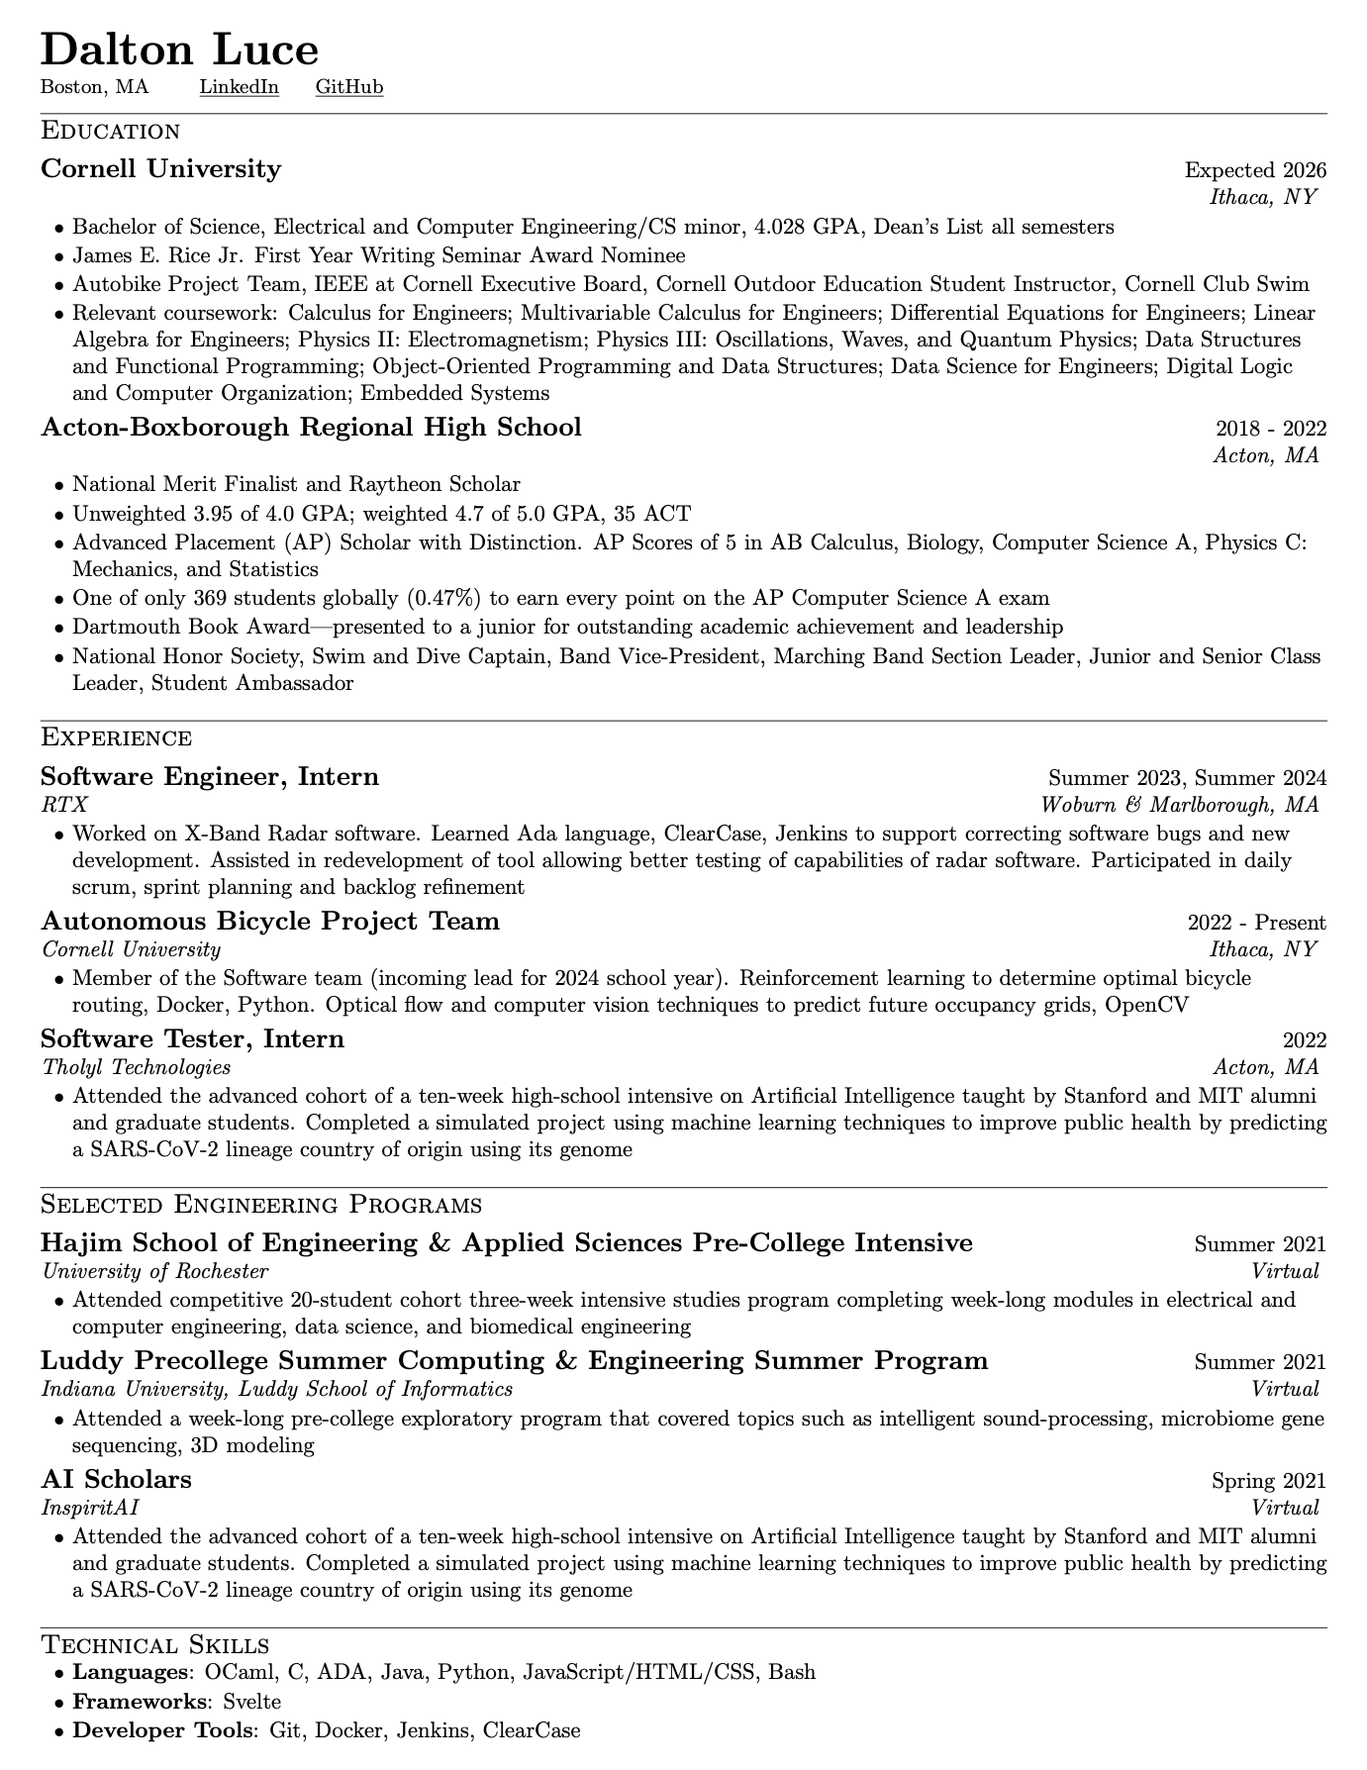
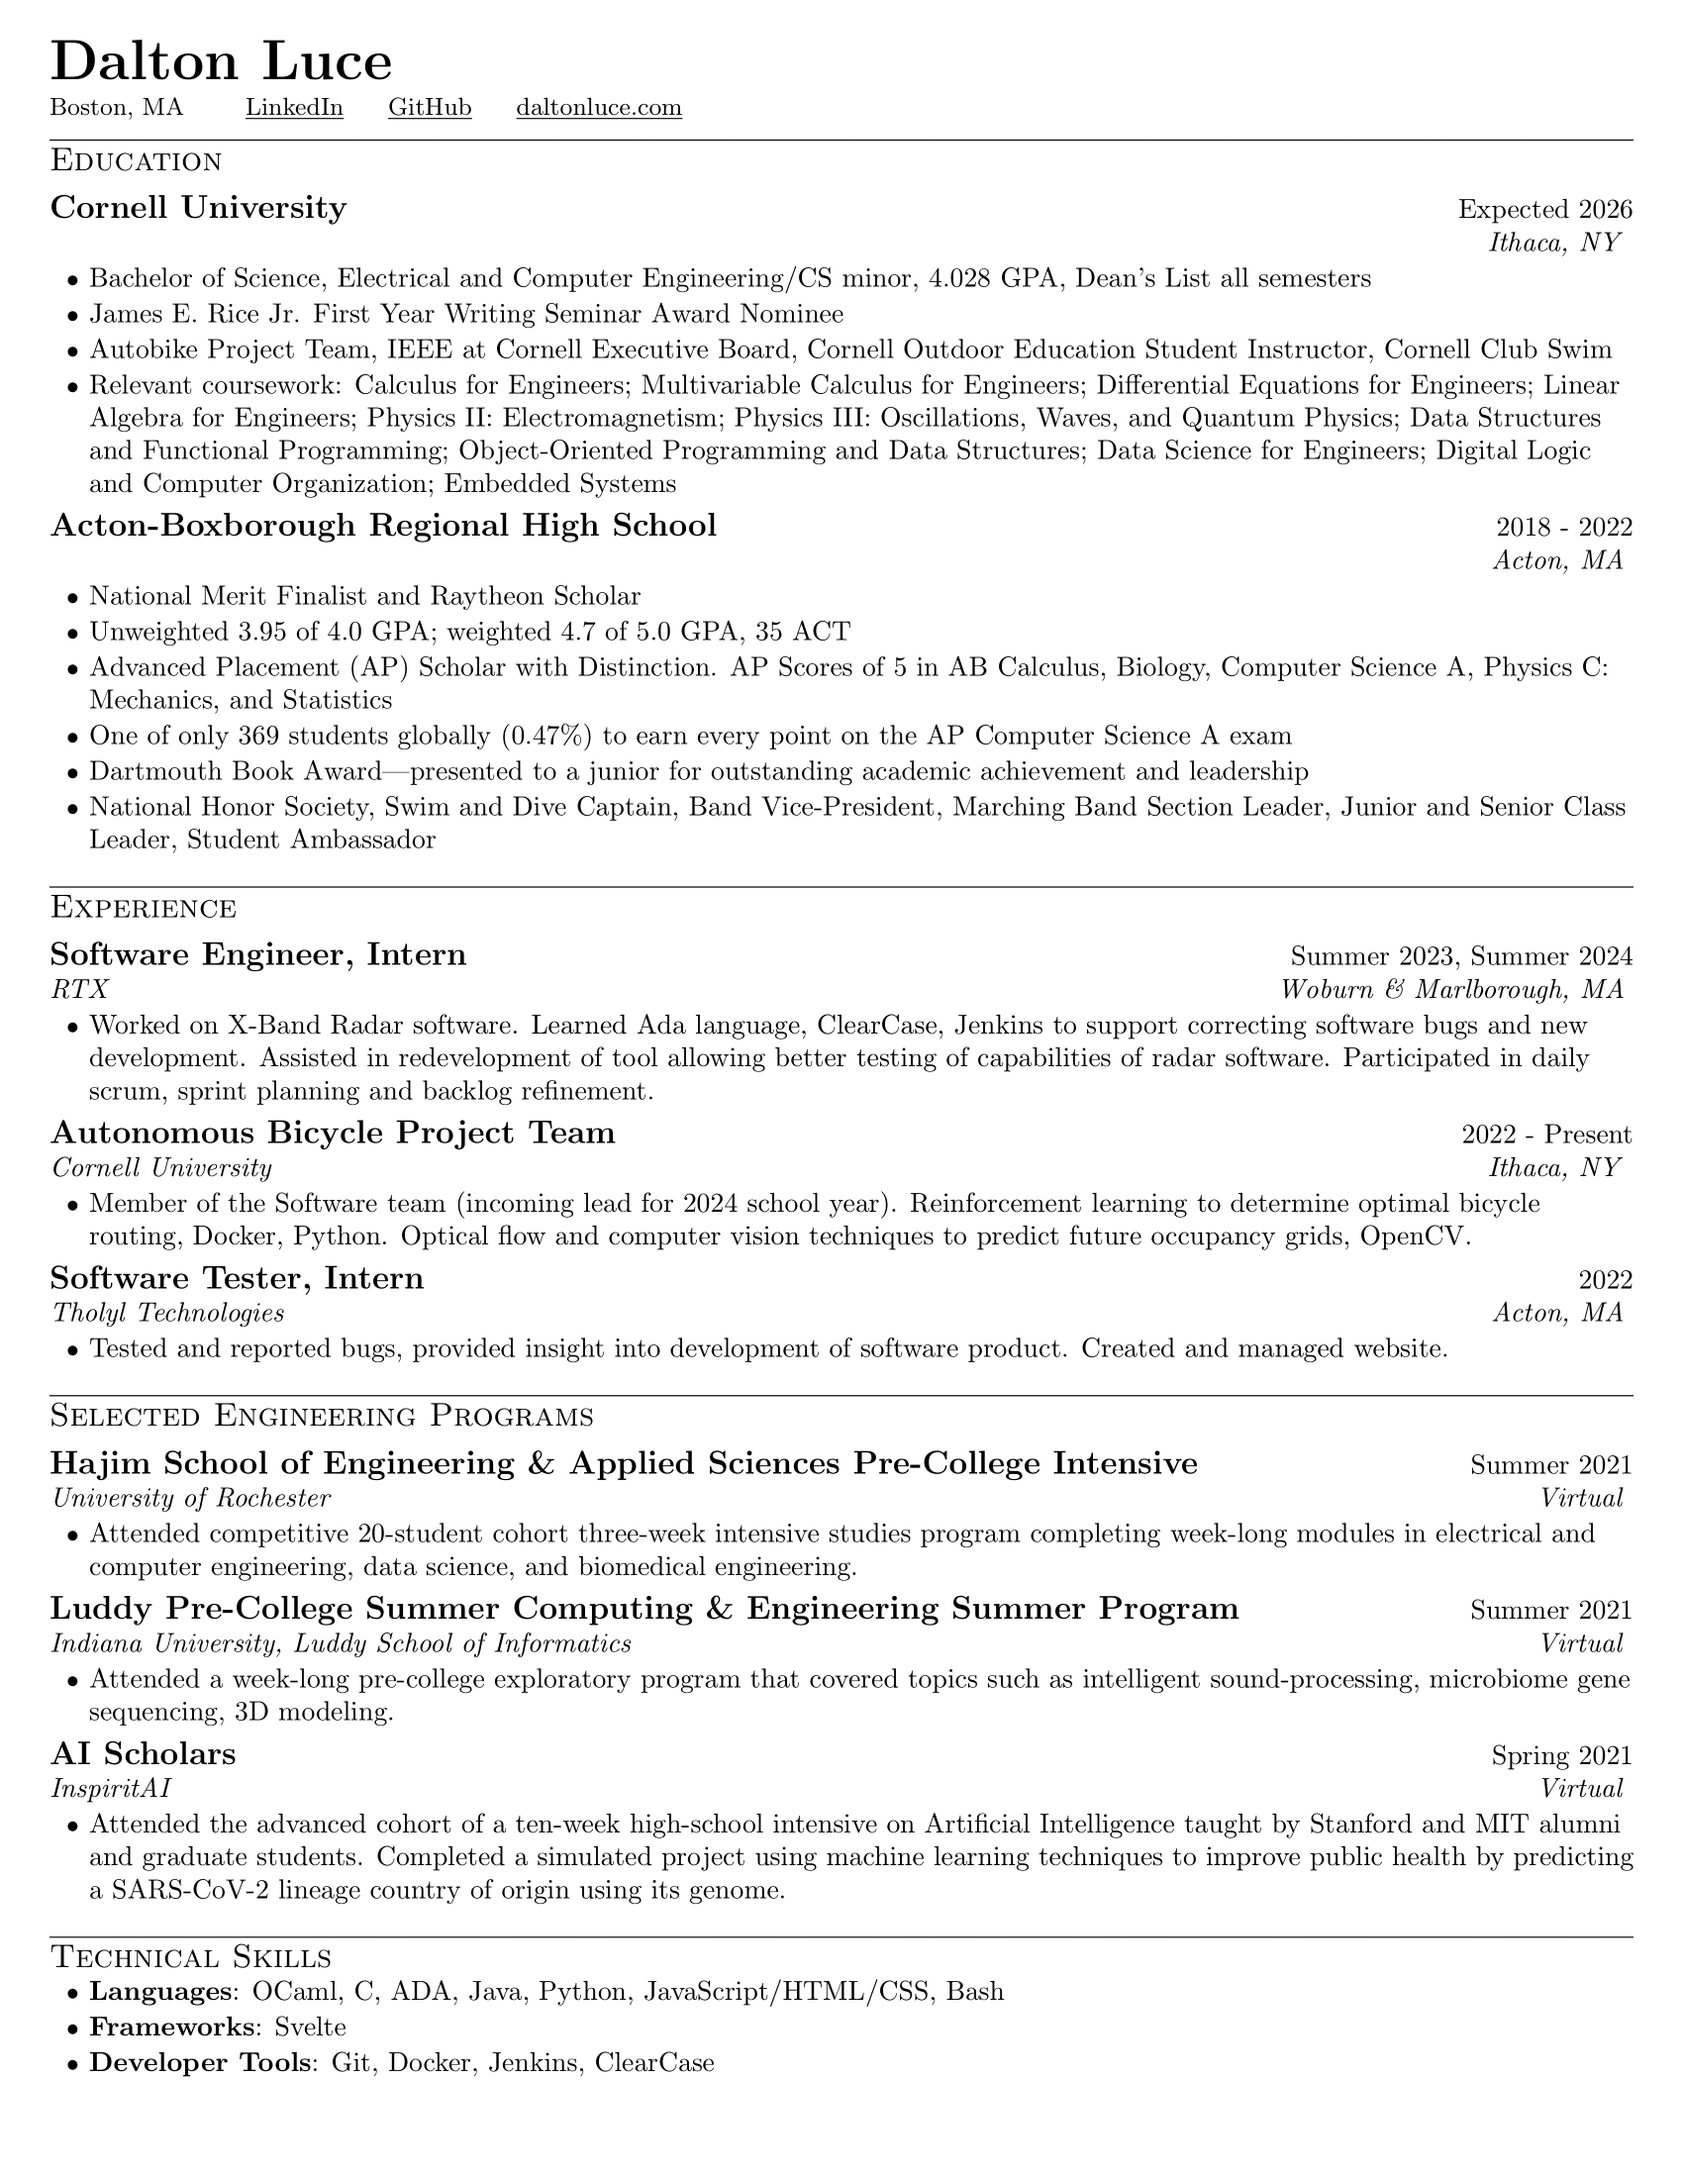
correct Tholyl

diff --git a/cv.tex b/cv.tex
@@ -158,7 +158,7 @@
         {Woburn \& Marlborough, MA}
 
     \itemsBegin
-        \item Worked on X-Band Radar software. Learned Ada language, ClearCase, Jenkins to support correcting software bugs and new development. Assisted in redevelopment of tool allowing better testing of capabilities of radar software. Participated in daily scrum, sprint planning and backlog refinement
+        \item Worked on X-Band Radar software. Learned Ada language, ClearCase, Jenkins to support correcting software bugs and new development. Assisted in redevelopment of tool allowing better testing of capabilities of radar software. Participated in daily scrum, sprint planning and backlog refinement.
     \itemsEnd
 
     %--------Autobike--------
@@ -169,7 +169,7 @@
         {Ithaca, NY}
 
     \itemsBegin
-        \item Member of the Software team (incoming lead for 2024 school year). Reinforcement learning to determine optimal bicycle routing, Docker, Python. Optical flow and computer vision techniques to predict future occupancy grids, OpenCV
+        \item Member of the Software team (incoming lead for 2024 school year). Reinforcement learning to determine optimal bicycle routing, Docker, Python. Optical flow and computer vision techniques to predict future occupancy grids, OpenCV.
     \itemsEnd
 
     %--------Tholyl--------
@@ -180,7 +180,7 @@
         {Acton, MA}
 
     \itemsBegin
-        \item Attended the advanced cohort of a ten-week high-school intensive on Artificial Intelligence taught by Stanford and MIT alumni and graduate students. Completed a simulated project using machine learning techniques to improve public health by predicting a SARS-CoV-2 lineage country of origin using its genome
+        \item Tested and reported bugs, provided insight into development of software product. Created and managed website.
     \itemsEnd
 
 %-----------SELECTED ENGINEERING PROGRAMS-----------
@@ -195,7 +195,7 @@
         {Virtual}
 
     \itemsBegin
-        \item Attended competitive 20-student cohort three-week intensive studies program completing week-long modules in electrical and computer engineering, data science, and biomedical engineering
+        \item Attended competitive 20-student cohort three-week intensive studies program completing week-long modules in electrical and computer engineering, data science, and biomedical engineering.
     \itemsEnd
 
     %--------Luddy--------
@@ -206,7 +206,7 @@
         {Virtual}
 
     \itemsBegin
-        \item Attended a week-long pre-college exploratory program that covered topics such as intelligent sound-processing, microbiome gene sequencing, 3D modeling
+        \item Attended a week-long pre-college exploratory program that covered topics such as intelligent sound-processing, microbiome gene sequencing, 3D modeling.
     \itemsEnd
 
 
@@ -218,7 +218,7 @@
         {Virtual}
 
     \itemsBegin
-        \item Attended the advanced cohort of a ten-week high-school intensive on Artificial Intelligence taught by Stanford and MIT alumni and graduate students. Completed a simulated project using machine learning techniques to improve public health by predicting a SARS-CoV-2 lineage country of origin using its genome
+        \item Attended the advanced cohort of a ten-week high-school intensive on Artificial Intelligence taught by Stanford and MIT alumni and graduate students. Completed a simulated project using machine learning techniques to improve public health by predicting a SARS-CoV-2 lineage country of origin using its genome.
     \itemsEnd
 
 %-----------TECHNICAL SKILLS-----------
